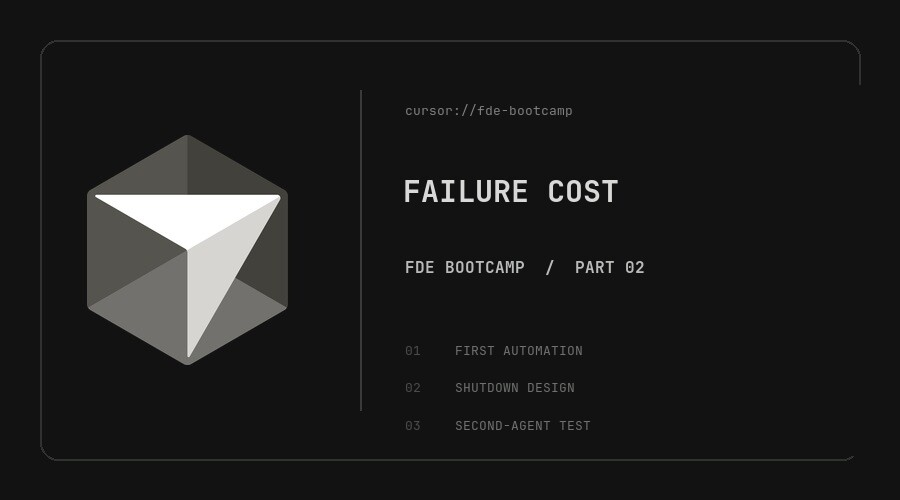
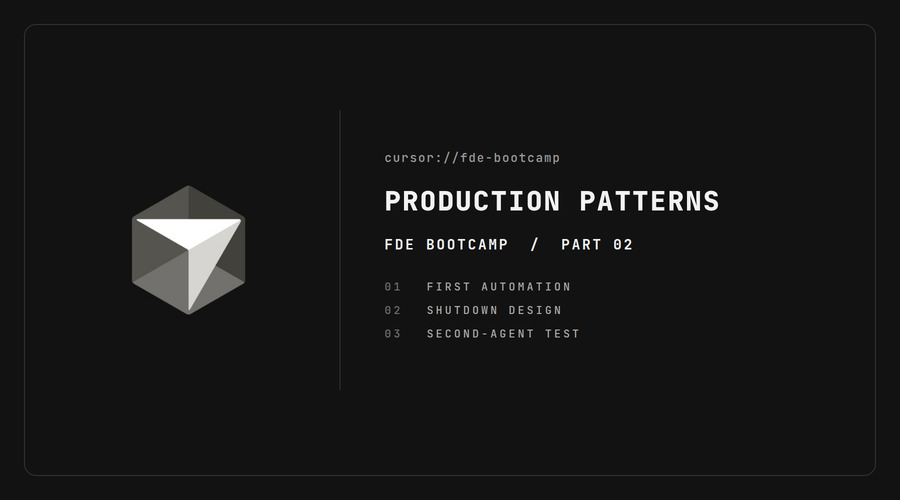
Update Part 2 covers and OG image

diff --git a/articles/cursor-fde-bootcamp-part-2.html b/articles/cursor-fde-bootcamp-part-2.html
@@ -9,11 +9,11 @@
     <meta property="og:url" content="https://eugene-burachevskiy.github.io/ai-vs-devops-blog/articles/cursor-fde-bootcamp-part-2.html">
     <meta property="og:title" content="70% accuracy может быть провалом: как выбрать первую AI automation — Cursor FDE Bootcamp, часть 2">
     <meta property="og:description" content="Cursor FDE Bootcamp, часть 2: цена ошибки AI-агента, опасность overall accuracy, shutdown conditions, human-in-the-loop и выбор между Automation, SDK и внутренней платформой.">
-    <meta property="og:image" content="https://eugene-burachevskiy.github.io/ai-vs-devops-blog/images/cursor-fde-bootcamp/05-first-automation-training-scenario.jpg">
+    <meta property="og:image" content="https://eugene-burachevskiy.github.io/ai-vs-devops-blog/images/cursor-fde-bootcamp-part2-cover.jpg">
     <meta name="twitter:card" content="summary_large_image">
     <meta name="twitter:title" content="70% accuracy может быть провалом: как выбрать первую AI automation — Cursor FDE Bootcamp, часть 2">
     <meta name="twitter:description" content="Cursor FDE Bootcamp, часть 2: цена ошибки AI-агента, опасность overall accuracy, shutdown conditions, human-in-the-loop и выбор между Automation, SDK и внутренней платформой.">
-    <meta name="twitter:image" content="https://eugene-burachevskiy.github.io/ai-vs-devops-blog/images/cursor-fde-bootcamp/05-first-automation-training-scenario.jpg">
+    <meta name="twitter:image" content="https://eugene-burachevskiy.github.io/ai-vs-devops-blog/images/cursor-fde-bootcamp-part2-cover.jpg">
     <link href="https://fonts.googleapis.com/css2?family=Inter:wght@300;400;500;600;700;800&family=JetBrains+Mono:wght@400;500;600&display=swap" rel="stylesheet">
     <style>
         :root {
